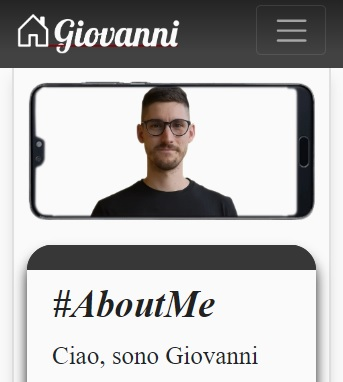
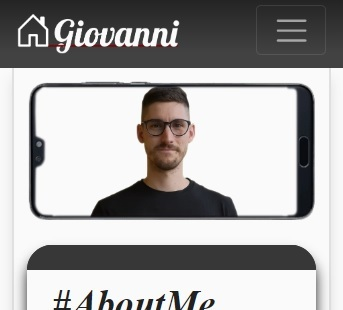
Cambio immagine portfolio

diff --git a/project/project.html b/project/project.html
@@ -42,21 +42,21 @@
 
           <div class="project to-left">
               <h3>Project 1: Portfolio</h3>
-            <div class="img-container">
-              <img class="img-fluid" src="../assets/img/screen-portfolio.jpg" alt="Screenshot della pagina portfolio">
+            <div class="img-container center">
+              <img class="img-fluid" src="../assets/img/screen-portfolio-smartphone.jpg" alt="Screenshot della pagina portfolio">
             </div>
           </div>
 
           <div class="project to-right">
             <h3>Project 2: Counter</h3>
-            <div class="img-container">
+            <div class="img-container center">
               <img class="img-fluid" src="../assets/img/counter.jpg" alt="Screenshot del progetto counter">
             </div>
           </div>
 
           <div class="project to-left">
             <h3>Calcolatore metabolismo</h3>
-            <div class="img-container">
+            <div class="img-container center">
               <img class="img-fluid" src="../assets/img/metabolismo.jpg" alt="Screenshot del calcolatore metabolismo">
             </div>
           </div>
